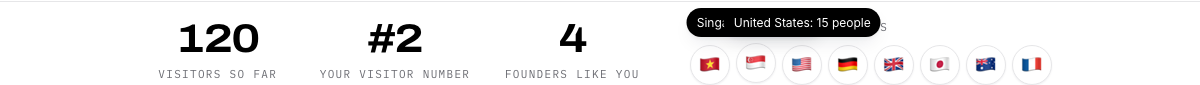
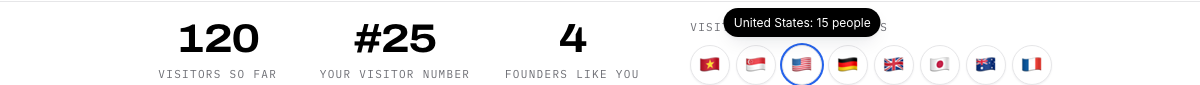
feat(visitor): flag cluster for every visitor country with tooltips; equal-size role cards in the change-role modal

diff --git a/src/components/site/visitor/stats/stats-strip.tsx b/src/components/site/visitor/stats/stats-strip.tsx
@@ -4,7 +4,8 @@ import { motion } from "motion/react";
 import { SPRING } from "@/components/motion/springs";
 import { useReducedMotion } from "@/lib/use-reduced-motion";
 import type { RoleId } from "../role-ids";
-import { PLURALS, countryRows, type StatsView, withOwnCountry } from "./stats-copy";
+import { useState } from "react";
+import { PLURALS, countryLabel, countryRows, type StatsView, withOwnCountry } from "./stats-copy";
 import { RollingNumber } from "./rolling-number";
 
 function Big({ value, label, testId, prefix }: { value: number; label: string; testId: string; prefix?: string }) {
@@ -16,6 +17,39 @@ function Big({ value, label, testId, prefix }: { value: number; label: string; t
       </p>
       <p className="label-mono mt-1.5 text-[11px] text-ink-3">{label}</p>
     </div>
+  );
+}
+
+/**
+ * One flag in a calm circle. Hover, keyboard focus or a tap shows "Vietnam: 64 people";
+ * the same text is the button's accessible name, so a screen reader hears it too.
+ */
+function FlagDot({ code, flag, label }: { code: string; flag: string; label: string }) {
+  const [open, setOpen] = useState(false);
+  return (
+    <li className="group relative">
+      <button
+        type="button"
+        data-testid={`country-${code}`}
+        aria-label={label}
+        aria-expanded={open}
+        onClick={() => setOpen((o) => !o)}
+        onBlur={() => setOpen(false)}
+        onKeyDown={(e) => {
+          if (e.key === "Escape") setOpen(false);
+        }}
+        className="grid size-10 place-items-center rounded-full border border-hairline bg-bg text-[20px] leading-none shadow-1 outline-none transition-transform hover:-translate-y-0.5 focus-visible:ring-2 focus-visible:ring-accent"
+      >
+        <span aria-hidden="true">{flag}</span>
+      </button>
+      <span
+        role="tooltip"
+        data-testid={`country-tip-${code}`}
+        className={`pointer-events-none absolute bottom-full left-1/2 z-20 mb-2 -translate-x-1/2 whitespace-nowrap rounded-lg bg-ink-1 px-2.5 py-1 text-[12px] text-white shadow-2 transition-opacity [@media(hover:hover)]:group-hover:opacity-100 group-has-[:focus-visible]:opacity-100 ${open ? "opacity-100" : "opacity-0"}`}
+      >
+        {label}
+      </span>
+    </li>
   );
 }
 
@@ -44,17 +78,15 @@ export function StatsStrip({ data, ordinal, role }: { data: StatsView; ordinal: 
         {role && roleCount > 0 ? <Big value={roleCount} label={`${PLURALS[role]} like you`} testId="stat-role" /> : null}
       </div>
       {countries.length > 0 ? (
-        <div className="flex flex-wrap items-center justify-center gap-3 lg:max-w-[420px] lg:flex-col lg:items-start lg:gap-2">
-        <p className="label-mono text-[11px] text-ink-3">Top countries</p>
-        <ul data-testid="visitor-countries" aria-label="Top countries" className="flex flex-wrap justify-center gap-2">
-          {countries.map((c) => (
-            <li key={c.country} className="inline-flex min-h-9 items-center gap-2 rounded-full border border-hairline bg-bg px-3.5 text-[14px] text-ink-2 shadow-1">
-              <span aria-hidden="true" className="text-[17px] leading-none">{c.flag}</span>
-              <span>{c.name}</span>
-              <RollingNumber value={c.count} className="font-medium text-ink-1 tabular-nums" />
-            </li>
-          ))}
-        </ul>
+        <div className="flex flex-col items-center gap-2 lg:max-w-[420px] lg:items-start">
+          <p className="label-mono text-[11px] text-ink-3">
+            {countries.length === 1 ? "Visitors from 1 country" : `Visitors from ${countries.length} countries`}
+          </p>
+          <ul data-testid="visitor-countries" aria-label="Visitor countries" className="flex max-w-[420px] flex-wrap justify-center gap-1.5 lg:justify-start">
+            {countries.map((c) => (
+              <FlagDot key={c.country} code={c.country} flag={c.flag} label={countryLabel(c.name, c.count)} />
+            ))}
+          </ul>
         </div>
       ) : null}
     </motion.div>

diff --git a/tests/e2e/visitor-stats.spec.ts b/tests/e2e/visitor-stats.spec.ts
@@ -134,3 +134,40 @@ test.describe("build-next poll", () => {
     await expect(page.getByTestId("poll-option-agent-payments")).toHaveAttribute("aria-checked", "false");
   });
 });
+
+test.describe("visitor countries", () => {
+  const body = {
+    total: 120,
+    byRole: { founder: 4 },
+    topCountries: [{ country: "VN", count: 64 }, { country: "SG", count: 18 }, { country: "US", count: 15 }, { country: "DE", count: 9 }, { country: "GB", count: 7 }, { country: "JP", count: 6 }, { country: "AU", count: 4 }, { country: "FR", count: 1 }],
+    you: { country: "VN", countryCount: 64, countryRank: 1, roleCount: 4 },
+  };
+  for (const vp of [{ width: 1440, height: 900 }, { width: 390, height: 844 }]) {
+    test(`${vp.width}px: a flag per country, biggest first, with a name + count tooltip on hover, focus and tap`, async ({ page }) => {
+      await page.setViewportSize(vp);
+      await page.route("**/api/stats**", (r) => r.fulfill({ json: body }));
+      await page.goto("/");
+      await page.getByTestId("section-visitor").scrollIntoViewIfNeeded(); // stats poll only while the row is on screen
+      await page.getByTestId("tile-founder").click();
+      const list = page.getByTestId("visitor-countries");
+      await list.scrollIntoViewIfNeeded();
+      await expect(list.getByRole("button")).toHaveCount(8);
+      await expect(list.getByRole("button").first()).toHaveAccessibleName("Vietnam: 64 people");
+      await expect(page.getByTestId("country-FR")).toHaveAccessibleName("France: 1 person");
+      const tip = page.getByTestId("country-tip-SG");
+      await expect(tip).toHaveCSS("opacity", "0");
+      if (vp.width > 400) await page.getByTestId("country-SG").hover();
+      else await page.getByTestId("country-SG").tap().catch(() => page.getByTestId("country-SG").click());
+      await expect(tip).toHaveCSS("opacity", "1");
+      await expect(tip).toHaveText("Singapore: 18 people");
+      await page.mouse.move(0, 0);
+      await page.getByTestId("country-SG").focus();
+      await page.keyboard.press("Tab"); // keyboard focus shows the next flag's tooltip, and only that one
+      await expect(tip).toHaveCSS("opacity", "0");
+      await expect(page.getByTestId("country-tip-US")).toHaveCSS("opacity", "1");
+      const overflow = await page.evaluate(() => document.documentElement.scrollWidth - window.innerWidth);
+      expect(overflow).toBeLessThanOrEqual(0);
+      await page.getByTestId("visitor-stats-strip").screenshot({ path: `process/features/portfolio-site/active/autoresearch-ux-261004_04-10-26/research/R8-shots/countries-${vp.width}.png` });
+    });
+  }
+});

diff --git a/src/components/site/visitor/stats/stats-copy.ts b/src/components/site/visitor/stats/stats-copy.ts
@@ -28,7 +28,7 @@ export type TopCountry = { country: string; count: number };
 
 export type StatsView = {
   total: number;
-  /** most-visited countries, biggest first (already limited by the API) */
+  /** every visitor country, biggest first (capped by the API) */
   topCountries: TopCountry[];
   byRole: Partial<Record<RoleId, number>>;
   you: { country: string | null; countryCount: number; countryRank: number; roleCount: number };
@@ -95,7 +95,7 @@ export function leaderLine(byRole: Partial<Record<RoleId, number>>, mine: RoleId
 }
 
 /** Country rows for the big stats: only real, known countries with a count, flag + name, biggest first. */
-export function countryRows(top: readonly TopCountry[] | null | undefined, limit = 5) {
+export function countryRows(top: readonly TopCountry[] | null | undefined, limit = 60) {
   const out: { country: string; name: string; flag: string; count: number }[] = [];
   for (const t of top ?? []) {
     const name = countryName(t.country);
@@ -167,3 +167,15 @@ export function pollRows<T extends string>(
   const note = showPercent ? `${total} votes` : total === 0 ? "Be one of the first 20 votes" : `${total} ${total === 1 ? "vote" : "votes"} so far. Be one of the first 20 votes`;
   return { rows, showPercent, note };
 }
+
+/** Tooltip / accessible name for one flag: "Vietnam: 64 people". */
+export function countryLabel(name: string, count: number): string {
+  return `${name}: ${count.toLocaleString("en-US")} ${count === 1 ? "person" : "people"}`;
+}
+
+/** Dev-only review seam: a spread of countries so the flag cluster can be eyeballed locally. */
+export const DEMO_COUNTRIES: TopCountry[] = [
+  { country: "VN", count: 64 }, { country: "SG", count: 18 }, { country: "US", count: 15 }, { country: "DE", count: 9 },
+  { country: "GB", count: 7 }, { country: "JP", count: 6 }, { country: "AU", count: 4 }, { country: "FR", count: 3 },
+  { country: "IN", count: 3 }, { country: "KR", count: 2 }, { country: "CA", count: 2 }, { country: "NL", count: 1 }, { country: "BR", count: 1 },
+];

diff --git a/tests/e2e/visitor-picker.spec.ts b/tests/e2e/visitor-picker.spec.ts
@@ -300,3 +300,26 @@ test.describe("reduced motion", () => {
     expect(moving).toBe(false);
   });
 });
+
+test.describe("change-role modal layout", () => {
+  for (const vp of [{ width: 1440, height: 900 }, { width: 768, height: 1024 }, { width: 390, height: 844 }]) {
+    test(`${vp.width}px: every card is the same size and the short last row is centred`, async ({ page }) => {
+      await page.setViewportSize(vp);
+      await page.goto("/");
+      await page.getByTestId("tile-founder").click();
+      await page.getByTestId("visitor-chip").click();
+      const group = page.getByRole("radiogroup", { name: "Who are you?" });
+      await expect(group.getByRole("radio")).toHaveCount(11);
+      const boxes = await group.locator(":scope > *").evaluateAll((els) => els.map((e) => e.getBoundingClientRect()).map((r) => ({ x: r.x, y: r.y, w: r.width, right: r.right })));
+      const widths = boxes.map((b) => Math.round(b.w));
+      expect(Math.max(...widths) - Math.min(...widths)).toBeLessThanOrEqual(1);
+      const g = await group.boundingBox();
+      const lastY = boxes[boxes.length - 1].y;
+      const last = boxes.filter((b) => Math.abs(b.y - lastY) < 2);
+      const left = last[0].x - g!.x;
+      const right = g!.x + g!.width - last[last.length - 1].right;
+      expect(Math.abs(left - right)).toBeLessThanOrEqual(2);
+      await page.screenshot({ path: `process/features/portfolio-site/active/autoresearch-ux-261004_04-10-26/research/R8-shots/modal-${vp.width}.png` });
+    });
+  }
+});

diff --git a/src/components/site/visitor/visitor-modal.tsx b/src/components/site/visitor/visitor-modal.tsx
@@ -24,6 +24,13 @@ export function VisitorModal() {
   );
 }
 
+// The radiogroup becomes a wrapping flex row: every card one width (2 / 3 / 4 per row), the short last row centred.
+const MODAL_GRID = [
+  "[&_[role=radiogroup]]:flex [&_[role=radiogroup]]:flex-wrap [&_[role=radiogroup]]:justify-center",
+  "[&_[role=radiogroup]>*]:!col-span-1 [&_[role=radiogroup]>*]:w-[calc((100%-0.75rem)/2)]",
+  "sm:[&_[role=radiogroup]>*]:w-[calc((100%-1.5rem)/3)] lg:[&_[role=radiogroup]>*]:w-[calc((100%-2.25rem)/4)]",
+].join(" ");
+
 function Sheet({ onClose, onPick }: { onClose: () => void; onPick: (role: RoleId) => void }) {
   const ref = useRef<HTMLDialogElement>(null);
   // Dev StrictMode runs the effect twice: the cleanup's close() fires a (late) close event that must not be taken for a user close, or the sheet unmounts at once.
@@ -69,7 +76,10 @@ function Sheet({ onClose, onPick }: { onClose: () => void; onPick: (role: RoleId
         >
           <span aria-hidden="true">×</span>
         </button>
-        <RolePicker onPick={(role) => { ref.current?.close(); onPick(role); }} autoFocus={false} labelId="visitor-modal-label" />
+        {/* Same-size cards, last row centred: the shared grid would stretch the 11th card across two cells. */}
+        <div className={MODAL_GRID}>
+          <RolePicker onPick={(role) => { ref.current?.close(); onPick(role); }} autoFocus={false} labelId="visitor-modal-label" />
+        </div>
       </motion.div>
     </dialog>
   );

diff --git a/src/components/site/visitor/stats/use-live-stats.ts b/src/components/site/visitor/stats/use-live-stats.ts
@@ -9,7 +9,14 @@
 
 import { useCallback, useEffect, useRef, useState } from "react";
 import { ROLE_IDS, type RoleId } from "../role-ids";
-import { moveOwnCount, type StatsView } from "./stats-copy";
+import { DEMO_COUNTRIES, moveOwnCount, type StatsView } from "./stats-copy";
+
+/** Dev only: `?demo-countries` merges a spread of countries in, for reviewing the flag cluster. */
+export function withDemo(view: StatsView): StatsView {
+  if (process.env.NODE_ENV !== "development" || typeof window === "undefined" || !new URLSearchParams(window.location.search).has("demo-countries")) return view;
+  const seen = new Set(view.topCountries.map((t) => t.country));
+  return { ...view, topCountries: [...view.topCountries, ...DEMO_COUNTRIES.filter((t) => !seen.has(t.country))] };
+}
 
 export const POLL_MS = 15_000;
 export const JITTER_MS = 2_000;
@@ -119,7 +126,7 @@ export function useLiveStats({ role, ready }: { role: RoleId | null; ready: bool
       const res = await fetch(`/api/stats?role=${roleRef.current ?? "none"}`, { signal: ctl.signal, cache: "no-store" });
       if (!res.ok) return; // 429 / 503 / 500: keep the last value, no noise
       const next = parseStats(await res.json());
-      if (next && !ctl.signal.aborted) setData(next);
+      if (next && !ctl.signal.aborted) setData(withDemo(next));
     } catch {
       /* silent */
     }

diff --git a/src/lib/visits.ts b/src/lib/visits.ts
@@ -161,10 +161,14 @@ async function aggregate(db: D1Database, now: Clock) {
     const topCountries = [...countryTotals.entries()]
       .map(([country, count]) => ({ country, count }))
       .sort((a, b) => b.count - a.count || a.country.localeCompare(b.country))
-      .slice(0, 5);
+      // Every country (codes + counts only, no PII); capped so the payload stays small.
+      .slice(0, MAX_COUNTRIES);
     return { total, byRole, topCountries, countryTotals };
   });
 }
+
+/** Upper bound on countries sent to the client (the flag cluster shows them all). */
+export const MAX_COUNTRIES = 60;
 
 export async function getStats(
   db: D1Database,

diff --git a/tests/unit/visitor-stats-copy.test.ts b/tests/unit/visitor-stats-copy.test.ts
@@ -154,3 +154,12 @@ describe("top countries", () => {
     expect(countryRows(null)).toEqual([]);
   });
 });
+
+describe("countryLabel", () => {
+  test("name and people count, singular for one", async () => {
+    const { countryLabel } = await import("../../src/components/site/visitor/stats/stats-copy");
+    expect(countryLabel("Vietnam", 64)).toBe("Vietnam: 64 people");
+    expect(countryLabel("France", 1)).toBe("France: 1 person");
+    expect(countryLabel("India", 1200)).toBe("India: 1,200 people");
+  });
+});
